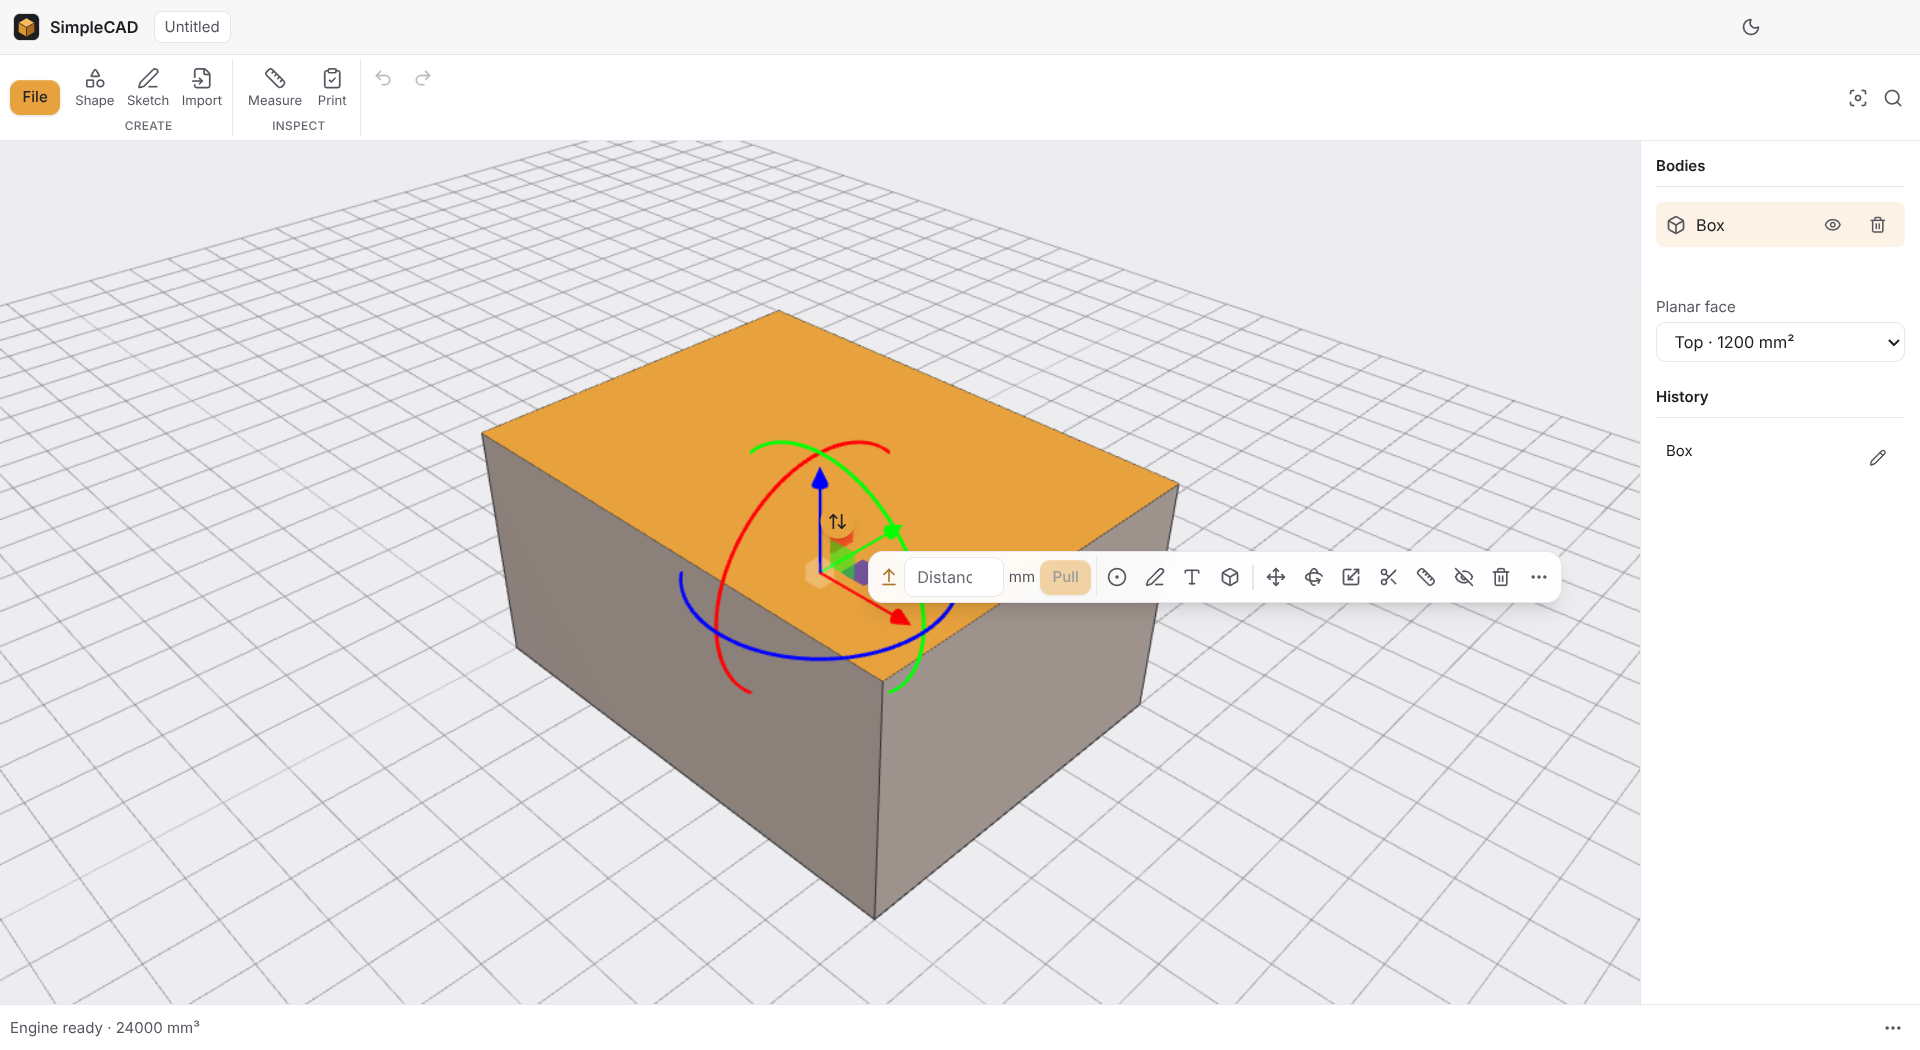
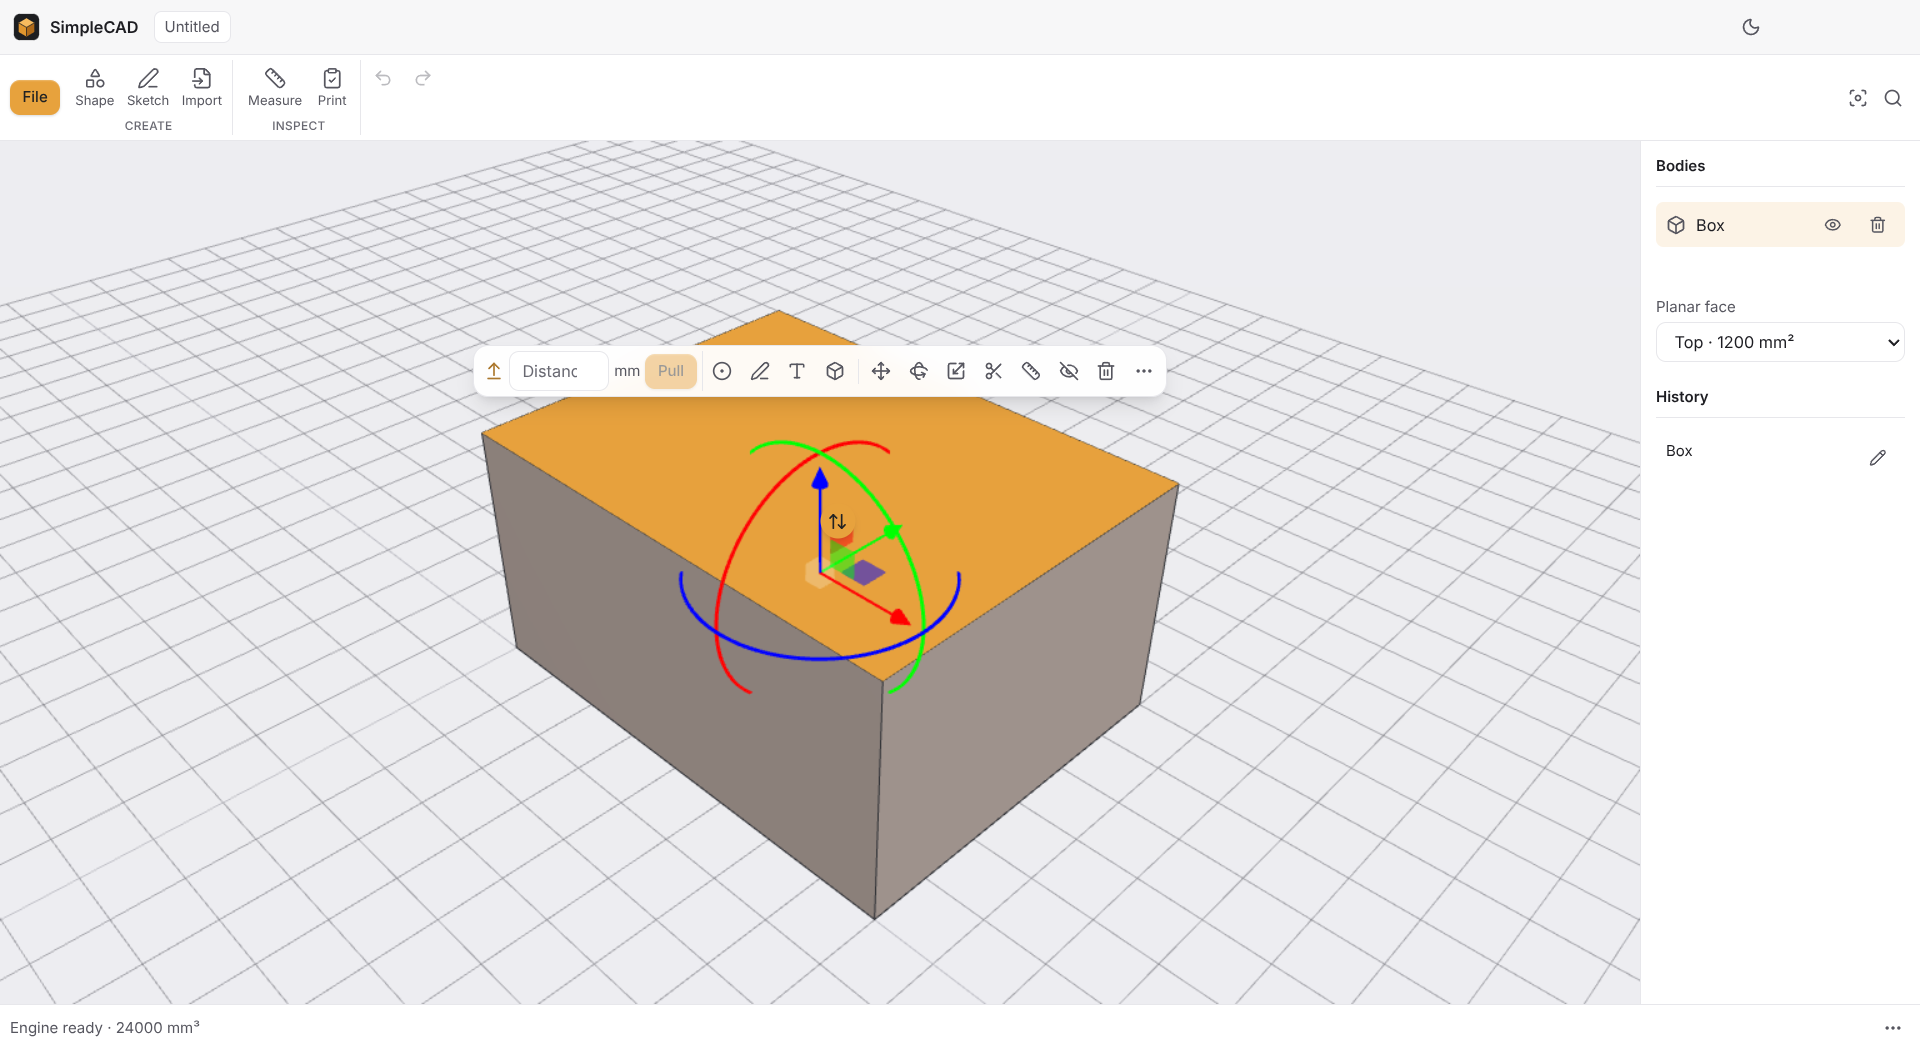
The selection bar stays off the part's arrows and rings; History clicks wait for a running step
The CI windows are small (an 800 x 560 view on the Windows and macOS runners), and the bar beside the
clicked face covered the X arrow and the part's middle there: drags and right-clicks missed. It now sits
centred over the arrows and rings (else under them, else docked at the bottom), clear of the face's pull
handle, and holds its place while a step runs.

History rows stay enabled while a step runs (since cb20254), but a click on Edit or Repair then was
dropped. It now opens once the step is done, if its step is still there.

SIMPLECAD_WINDOW=WxH opens the window at that size, and SCAD_WINDOW runs the e2e specs so, as on the small
CI screens. The box-select spec waits for the Group step before clicking.

Claude-Session: https://claude.ai/code/session_01FFYLptpZSZYhjVriy6synt

Changed region(s): [[0.25, 0.3048, 0.5938, 0.3962], [0.4375, 0.5181, 0.8125, 0.579]]

diff --git a/app/tests/e2e/ux.spec.ts b/app/tests/e2e/ux.spec.ts
@@ -671,6 +671,58 @@ test('a click takes the part with its arrows and rings; dragging one moves or tu
   }
 })
 
+// The Windows and macOS runners' small screens give an 800 × 560 view, where the bar beside the face covered the X
+// arrow and the part's middle.
+test('in a small window the selection bar stays off the arrows, the rings and the middle of the part', { tag: '@viewport' }, async () => {
+  const { page } = await launch({ env: { SIMPLECAD_WINDOW: '1024x700' } })
+  const steps = page.getByRole('list', { name: 'Model history' }).locator('li')
+  const canvas = page.locator('canvas')
+  await expect(steps).toHaveText(['Box'])
+  expect((await canvas.boundingBox())!.height).toBeLessThan(620)
+  await page.mouse.click(...await partAt(page, 0))
+  const bar = page.getByRole('toolbar', { name: 'Selection tools' })
+  await expect(bar).toBeVisible()
+  await expect(canvas).toHaveAttribute('data-rings', /"z"/)
+  await page.waitForTimeout(200)
+  const area = (await bar.boundingBox())!
+  const view = (await canvas.boundingBox())!
+  const points: Point[] = [...Object.values(JSON.parse((await canvas.getAttribute('data-handles'))!) as Record<string, Point>),
+    ...Object.values(JSON.parse((await canvas.getAttribute('data-rings'))!) as Record<string, Point>),
+    [view.x + view.width / 2, view.y + view.height / 2]]
+  for (const [x, y] of points) {
+    expect(x >= area.x && x <= area.x + area.width && y >= area.y && y <= area.y + area.height, `${x},${y} clear of the bar`).toBe(false)
+  }
+  const [x, y] = await handle(page, 'x')
+  await page.mouse.move(x, y)
+  await page.mouse.down()
+  await page.mouse.move(x + 30, y + 8, { steps: 4 })
+  await expect(canvas).toHaveAttribute('data-ghost', 'move')
+  await page.keyboard.press('Escape')
+  await page.mouse.up()
+  await expect(steps).toHaveText(['Box'])
+  await expect(errors(page)).toHaveCount(0)
+})
+
+// History stays clickable while a step runs (disabling hundreds of rows on each step was slow on large projects).
+test('Edit chosen in History while a step runs opens once that step is done', async () => {
+  const { page } = await launch()
+  const status = page.getByTestId('engine-status')
+  await expect(status).toContainText('24000 mm³')
+  await page.getByLabel('Planar face').selectOption({ label: 'Top · 1200 mm²' })
+  await page.getByLabel('Pull distance').fill('2')
+  await page.getByLabel('Pull distance').press('Enter')
+  await expect(status).toContainText('26400 mm³')
+  // In one go, so Edit arrives while the Undo still runs.
+  await page.evaluate(() => {
+    const button = (selector: string) => document.querySelector<HTMLButtonElement>(selector)!
+    button('[role=toolbar][aria-label="Modeling tools"] [aria-label="Undo"]').click()
+    button('[aria-label="Model history"] [aria-label="Edit Box"]').click()
+  })
+  await expect(status).toContainText('24000 mm³')
+  await expect(page.getByRole('form', { name: 'Edit Box' })).toBeVisible()
+  await expect(errors(page)).toHaveCount(0)
+})
+
 test('a box from empty space takes what it surrounds, or right to left what it touches; Shift adds; a group is one click and a double-click reaches in, then edits', { tag: '@viewport' }, async () => {
   const { page } = await launch()
   const steps = page.getByRole('list', { name: 'Model history' }).locator('li')
@@ -722,6 +774,8 @@ test('a box from empty space takes what it surrounds, or right to left what it t
   await page.mouse.click(ax, ay)
   await page.keyboard.up('Shift')
   await page.getByRole('button', { name: 'Group', exact: true }).click()
+  // The Group step's result resets the selection, so the clicks wait for it.
+  await expect(bodies.getByRole('list', { name: 'Group' })).toBeVisible()
   await page.mouse.click(area.x + 6, area.y + 6)
   await page.mouse.click(ax, ay)
   await expect(chosen('Box')).toHaveAttribute('aria-pressed', 'true')

diff --git a/app/src/renderer/viewport/Viewport.tsx b/app/src/renderer/viewport/Viewport.tsx
@@ -248,6 +248,7 @@ export function Viewport(props: Props) {
     /** Beside the face, clear of the drag handle and inside the view; docked at the bottom without a point (a tool's
      * panel in the top right corner, and kept where it opened). */
     let pinned: Vector2 | 'dock' | undefined
+    let held: { chosen: string; reach: ReturnType<typeof transform.reach> } | undefined
     const placeBar = (at?: Vector2) => {
       const panel = bar.current
       if (!panel) return
@@ -264,8 +265,25 @@ export function Viewport(props: Props) {
       if (panelSize?.panel !== panel) panelSize = { panel, w: panel.offsetWidth, h: panel.offsetHeight }
       const { w, h } = panelSize
       const clamp = (v: number, max: number) => Math.max(8, Math.min(v, max - 8))
-      const left = `${at ? clamp(at.x + 24, width - w) : tool ? Math.max(8, width - w - 12) : Math.max(8, (width - w) / 2)}px`
-      const top = `${at ? clamp(at.y + 24, height - h) : tool ? 12 : height - h - 12}px`
+      // The bar stays off the part's arrows and rings, and off the face's pull handle: centred over them (a model on
+      // the plate leaves room above it, where the bar covers least of it and of the parts beside it), else under them,
+      // else docked at the bottom. Beside the face it covered the X arrow (and the part's middle) in a small window.
+      // While a step runs the handles go but the same parts stay chosen: the bar keeps its place instead of jumping.
+      const chosen = String(current.current.chosen ?? [])
+      const reach = transform.reach()
+      if (reach || held?.chosen !== chosen) held = { chosen, reach }
+      const gizmo = tool ? undefined : held.reach
+      let x: number, y: number
+      if (gizmo && gizmo.x >= 0 && gizmo.x <= width && gizmo.y >= 0 && gizmo.y <= height) {
+        x = clamp(gizmo.x - w / 2, width - w)
+        const clear = (top: number) => top >= 8 && top + h <= height - 8 &&
+          !(at && at.x > x - 20 && at.x < x + w + 20 && at.y > top - 20 && at.y < top + h + 20)
+        y = [gizmo.y - gizmo.r - 8 - h, gizmo.y + gizmo.r + 8].find(clear) ?? height - h - 12
+      } else {
+        x = at ? clamp(at.x + 24, width - w) : tool ? Math.max(8, width - w - 12) : Math.max(8, (width - w) / 2)
+        y = at ? clamp(at.y + 24, height - h) : tool ? 12 : height - h - 12
+      }
+      const [left, top] = [`${x}px`, `${y}px`]
       if (panel.style.left !== left) panel.style.left = left
       if (panel.style.top !== top) panel.style.top = top
     }

diff --git a/app/src/renderer/viewport/transform.ts b/app/src/renderer/viewport/transform.ts
@@ -397,10 +397,23 @@ export function viewportTransform(canvas: HTMLCanvasElement, camera: Perspective
     if (rings.object) put(arrows.object ? 'rings' : 'handles', anchors(rings))
     if (!arrows.object || !rings.object) delete canvas.dataset.rings
   }
+  // TransformControls' own scale: the handles keep one size on screen.
+  const scaleOf = (which: TransformControls, from = hub.position) => from.distanceTo(camera.position) *
+    Math.min(1.9 * Math.tan(Math.PI * camera.fov / 360) / camera.zoom, 7) * which.size / 4
+  /** Where the handles are in the view, in its pixels: their middle, and how far their rings (or the arrows' tips)
+   * reach, so the selection bar can stay off them. From where a drag started, so the bar holds still during one. */
+  const reach = () => {
+    if (!live || !config) return undefined
+    const { width, height } = measure()
+    // The rings' pick shape and the arrows' tips both end 0.6 of a handle's size out.
+    const out = 0.6 * scaleOf(rings.object ? rings : arrows, pivot)
+    const middle = pivot.clone().project(camera)
+    const edge = at.setFromMatrixColumn(camera.matrixWorld, 1).multiplyScalar(out).add(pivot).project(camera)
+    const [x, y] = [(middle.x + 1) / 2 * width, (1 - middle.y) / 2 * height]
+    return { x, y, r: Math.hypot((edge.x + 1) / 2 * width - x, (1 - edge.y) / 2 * height - y) }
+  }
   const points = (which: TransformControls) => {
-    // TransformControls' own scale: the handles keep one size on screen.
-    const scale = hub.position.distanceTo(camera.position) *
-      Math.min(1.9 * Math.tan(Math.PI * camera.fov / 360) / camera.zoom, 7) * which.size / 4
+    const scale = scaleOf(which)
     const rect = measure()
     return [0, 1, 2].map((axis) => {
       if (which === arrows) {
@@ -432,5 +445,5 @@ export function viewportTransform(canvas: HTMLCanvasElement, camera: Perspective
     label.remove()
     scene.remove(hub, handle, moving, rest, restEdges, ghost)
   }
-  return { set, publish, claimed: () => claimed, hits, dispose }
+  return { set, publish, reach, claimed: () => claimed, hits, dispose }
 }

diff --git a/app/src/renderer/app/App.tsx b/app/src/renderer/app/App.tsx
@@ -1385,9 +1385,14 @@ export function App() {
 
   // History rows keep the same handlers across renders, so a row draws again only when its step changes.
   const editStepNow = useRef<(step: StepInfo) => void>(() => {})
+  /** A History click made while a step ran: it opens once that step is done, if its own step is still there. */
+  const waitingStep = useRef<{ id: string; repair: boolean }>(undefined)
   editStepNow.current = (step) => {
     // History stays enabled while a step runs: what it opens waits for that step.
-    if (busyRef.current) return
+    if (busyRef.current) {
+      waitingStep.current = { id: step.id, repair: false }
+      return
+    }
     if (step.kind === 'sketch') {
       void openSketch(step.id)
       return
@@ -1437,9 +1442,19 @@ export function App() {
   }
   const repairStepNow = useRef<(step: StepInfo) => void>(() => {})
   repairStepNow.current = (step) => {
-    if (busyRef.current) return
+    if (busyRef.current) {
+      waitingStep.current = { id: step.id, repair: true }
+      return
+    }
     select(); setRepairing(step.id); setRepairBody(undefined); setMoreRepair({})
   }
+  useEffect(() => {
+    const waiting = waitingStep.current
+    if (busy || !waiting) return
+    waitingStep.current = undefined
+    const step = model?.steps.find((entry) => entry.id === waiting.id)
+    if (step && (waiting.repair ? !step.undone && step.missingInput : canEdit(step))) (waiting.repair ? repairStepNow : editStepNow).current(step)
+  }, [busy, model])
   // A large model has thousands of faces: their list is made only while it is open (and once per result), since
   // laying thousands of options out again took UPS Atlas's every step tens of milliseconds.
   const [faceListOpen, setFaceListOpen] = useState(false)

diff --git a/app/tests/e2e/helpers.ts b/app/tests/e2e/helpers.ts
@@ -92,7 +92,8 @@ export async function launch(opts: { env?: Record<string, string>; args?: string
   const app = await electron.launch({
     ...(packaged ? { executablePath: packaged, args } : { args: ['.', ...args] }),
     // Never the user's own recovery folder, which SimpleCAD 0.4 shares.
-    env: { ...process.env, SIMPLECAD_TIMING: '1', SIMPLECAD_RECOVERY_DIR: scratchDir('scad-recovery-'), SIMPLECAD_LEGACY_SETTINGS: path.join(userData, 'legacy-settings.json'), SIMPLECAD_PRINTER_PROFILE: path.join(userData, 'printer-profile.json'), ...opts.env, SIMPLECAD_USER_DATA: userData }
+    // SCAD_WINDOW=1024x700 runs as on the Windows and macOS runners, whose small screens shrink the window.
+    env: { ...process.env, ...(process.env.SCAD_WINDOW ? { SIMPLECAD_WINDOW: process.env.SCAD_WINDOW } : {}), SIMPLECAD_TIMING: '1', SIMPLECAD_RECOVERY_DIR: scratchDir('scad-recovery-'), SIMPLECAD_LEGACY_SETTINGS: path.join(userData, 'legacy-settings.json'), SIMPLECAD_PRINTER_PROFILE: path.join(userData, 'printer-profile.json'), ...opts.env, SIMPLECAD_USER_DATA: userData }
   })
   if (process.env.SCAD_DEBUG) {
     app.process().stdout?.on('data', (d) => process.stdout.write(`main: ${d}`))

diff --git a/app/src/main/index.ts b/app/src/main/index.ts
@@ -54,9 +54,11 @@ function createWindow() {
     return
   }
   const dark = nativeTheme.shouldUseDarkColors
+  // SIMPLECAD_WINDOW=1024x700 opens it that size, as a small screen does (the e2e specs check the view so).
+  const [width, height] = process.env.SIMPLECAD_WINDOW?.match(/^(\d+)x(\d+)$/)?.slice(1).map(Number) ?? [1440, 920]
   mainWindow = new BrowserWindow({
-    width: 1440,
-    height: 920,
+    width,
+    height,
     minWidth: 960,
     minHeight: 600,
     show: false,

diff --git a/CHANGELOG.md b/CHANGELOG.md
@@ -19,10 +19,11 @@ tasks measured for this release take 29 clicks and keys in all, against 47 in
   the model still turns the view, and so does a right drag anywhere.
 - **Double-click** a part to change the step that made it; in a group, the
   first double-click reaches inside for the one part.
-- **A bar beside what you selected**, with the likeliest tool first: the pull
-  distance and Hole for a face, Fillet for an edge, Move and Rotate for a
-  part, Subtract for two parts, Arrange for three or more, Ungroup for a group.
-  Everything else is behind its ⋯, and the right-click menu offers the same.
+- **A bar beside what you selected**, clear of its arrows and rings, with the
+  likeliest tool first: the pull distance and Hole for a face, Fillet for an
+  edge, Move and Rotate for a part, Subtract for two parts, Arrange for three
+  or more, Ungroup for a group. Everything else is behind its ⋯, and the
+  right-click menu offers the same.
 - **Handles on the model.** Drag a face's handle to pull it, an edge's to round
   it, or Split's plane through a part, with the size at the cursor. Drags snap
   to 0.25 mm; hold Shift for free, Ctrl for 0.05 mm.
@@ -38,7 +39,8 @@ tasks measured for this release take 29 clicks and keys in all, against 47 in
 - **Large projects are quicker.** A step on UPS Atlas takes about 100 ms
   (180–195 ms in 0.5.1), and on Atlas Box about 105 ms (125–130 ms). The
   window no longer sends the whole model again for every step, lays itself
-  out again on every frame, or turns History's buttons off and on.
+  out again on every frame, or turns History's buttons off and on (what you
+  click in History while a step runs opens when it is done).
 - **Undoing a Move of a large imported part** takes under half a second (UPS
   Atlas's board: 0.42–0.47 s, against 1.7–2.0 s in 0.5.1 and about 0.5 s in
   0.4.4). The part it brings back is recognised as the one shown, moved, so it
